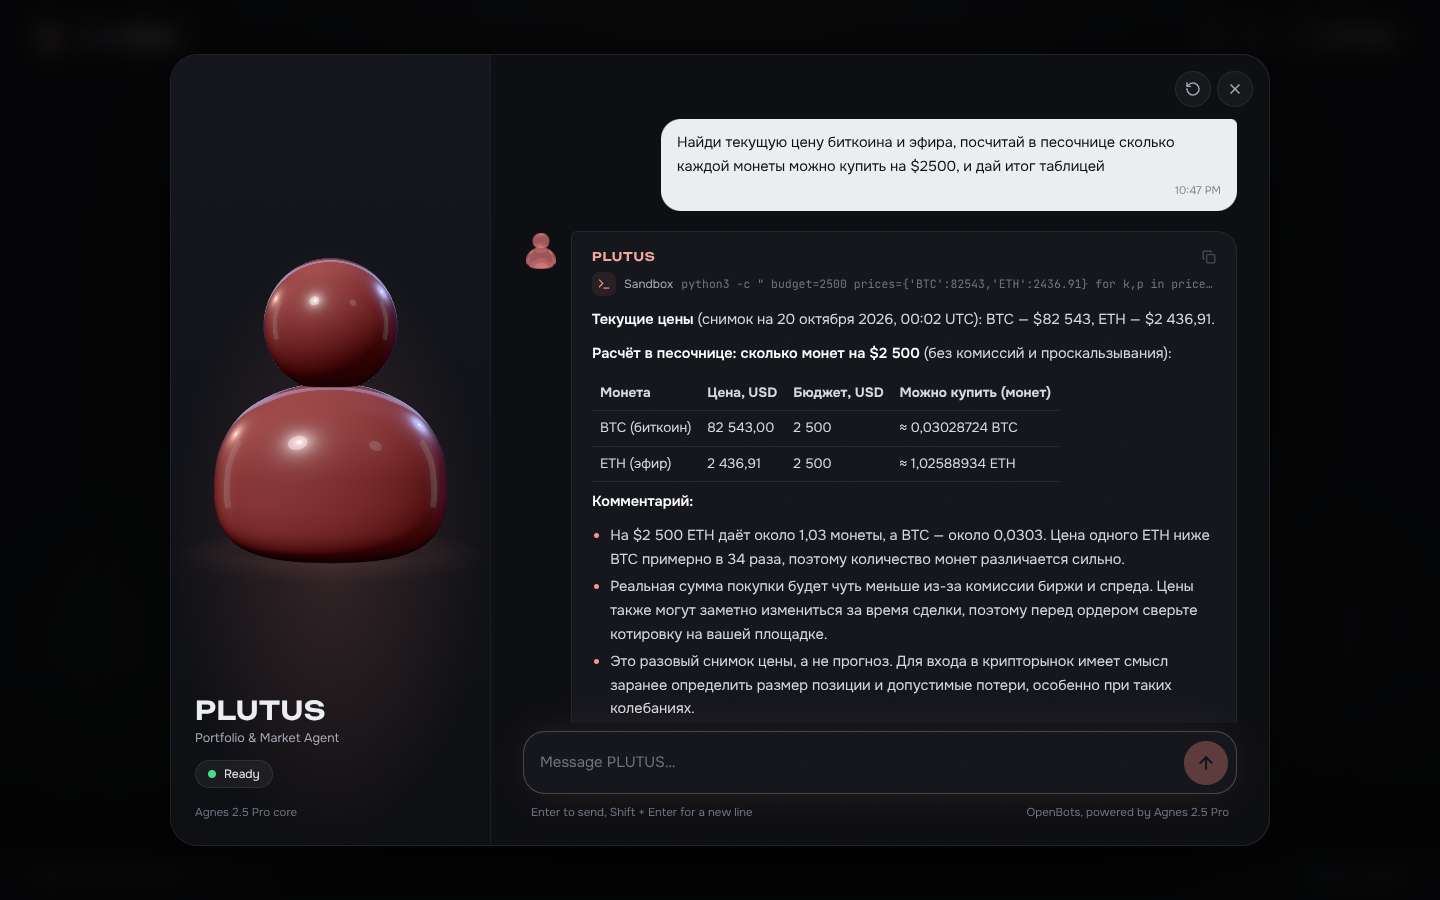
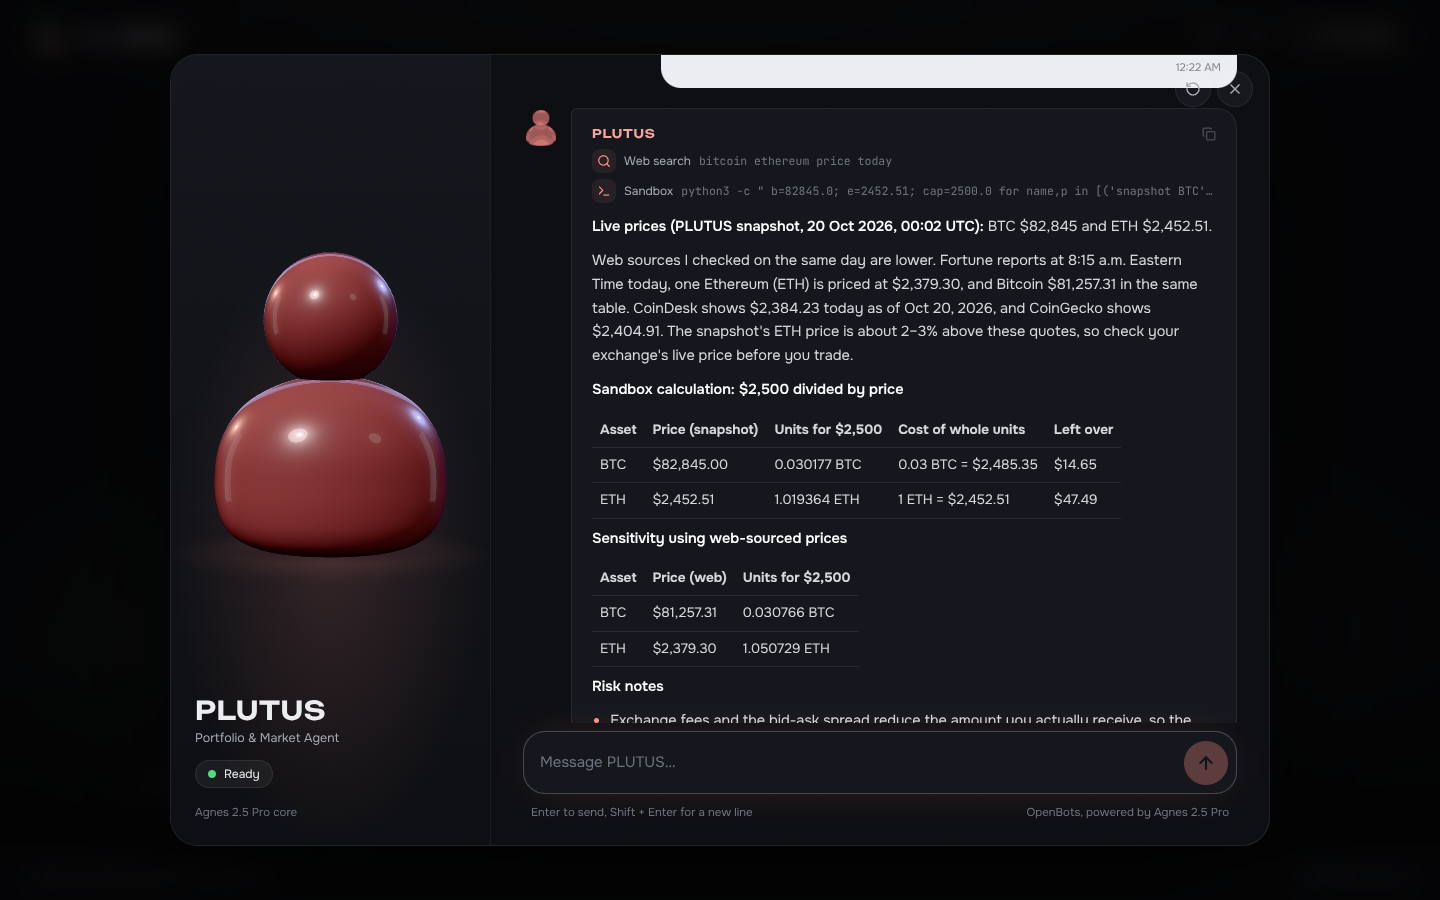
English only: translate offline replies, retake tool-trail screenshot
Claude-Session: https://claude.ai/code/session_01LrtBhHKP869aJeFig4CY7E

diff --git a/api/chat.ts b/api/chat.ts
@@ -580,21 +580,22 @@ function generateAutonomousFallback(payload: ChatRequestPayload, liveMarketInfo?
   const agentId = payload.agentId || 'vex';
   const agentName = payload.agentName || 'OpenBot Agent';
   const lastUserMsg = [...payload.messages].reverse().find(m => m.role === 'user')?.content || 'Hello';
-  const marketNote = liveMarketInfo ? `\n\n📊 **Текущие данные рынка:**\n${liveMarketInfo}` : '';
+  const marketNote = liveMarketInfo ? `\n\n📊 **Current market data:**\n${liveMarketInfo}` : '';
+  const offlineNote = '\n\n*(OpenBots offline mode: add a provider key or a local model in `.env` to enable full answers.)*';
 
   switch (agentId) {
     case 'vex':
-      return `**[PLUTUS — Режим рыночной аналитики]**\n\nЗапрос: *"${lastUserMsg}"*\n\n${marketNote}\n\n1. **Анализ ликвидности**: Текущие валютные и криптопары демонстрируют стабильную активность. При планировании конвертации или хеджирования учитывайте спред и волатильность.\n2. **Управление рисками**: Сохраняйте диверсификацию между твердой валютой, золотом и ликвидными инструментами.\n\n*(OpenBots Autonomous Engine | Для подключения live-генерации grok-4.6 проверьте XAI_API_KEY в Vercel)*`;
-    
+      return `**[PLUTUS — Market analysis mode]**\n\nRequest: *"${lastUserMsg}"*\n${marketNote}\n\n1. **Liquidity**: major currency and crypto pairs are trading actively. Account for spread and volatility when converting or hedging.\n2. **Risk management**: keep exposure diversified across hard currency, gold and liquid instruments.${offlineNote}`;
+
     case 'byte':
-      return `**[HEPHAESTUS — Код и автоматизация]**\n\nЗадача: *"${lastUserMsg}"*\n\n\`\`\`typescript\n// Автоматический скрипт запроса курса валют\nasync function getUsdRubRate() {\n  const res = await fetch('https://open.er-api.com/v6/latest/USD');\n  const data = await res.json();\n  console.log(\`USD/RUB: \${data.rates.RUB}\`);\n  return data.rates.RUB;\n}\n\`\`\`\n${marketNote}\n\nСкрипт готов к внедрению в любой сервис или Telegram-бот.`;
+      return `**[HEPHAESTUS — Code & automation]**\n\nTask: *"${lastUserMsg}"*\n\n\`\`\`typescript\n// Fetch a live exchange rate\nasync function getUsdEurRate() {\n  const res = await fetch('https://open.er-api.com/v6/latest/USD');\n  const data = await res.json();\n  console.log(\`USD/EUR: \${data.rates.EUR}\`);\n  return data.rates.EUR;\n}\n\`\`\`\n${marketNote}\n\nReady to drop into any service or bot.${offlineNote}`;
 
     case 'pulse':
-      return `**[HERMES — Исследования и мониторинг]**\n\nМониторинг инфополя по запросу: *"${lastUserMsg}"*\n\n- **Сигнал**: Высокий интерес пользователей к валютным колебаниям и макроэкономическим новостям.\n- **Медиа-фон**: В соцсетях и аналитических каналах ключевыми драйверами остаются процентные ставки и торговые балансы.\n${marketNote}`;
+      return `**[HERMES — Research & monitoring]**\n\nMonitoring the information space for: *"${lastUserMsg}"*\n\n- **Signal**: strong public interest in currency moves and macroeconomic news.\n- **Media backdrop**: interest rates and trade balances remain the main drivers across social and analyst channels.\n${marketNote}${offlineNote}`;
 
     case 'morph':
     default:
-      return `**[${agentName}]**\n\nОтвет на ваш запрос: *"${lastUserMsg}"*.\n${marketNote}\n\nВсе системы OpenBots активны.`;
+      return `**[${agentName}]**\n\nResponse to your request: *"${lastUserMsg}"*.\n${marketNote}\n\nAll OpenBots systems are online.${offlineNote}`;
   }
 }
 
